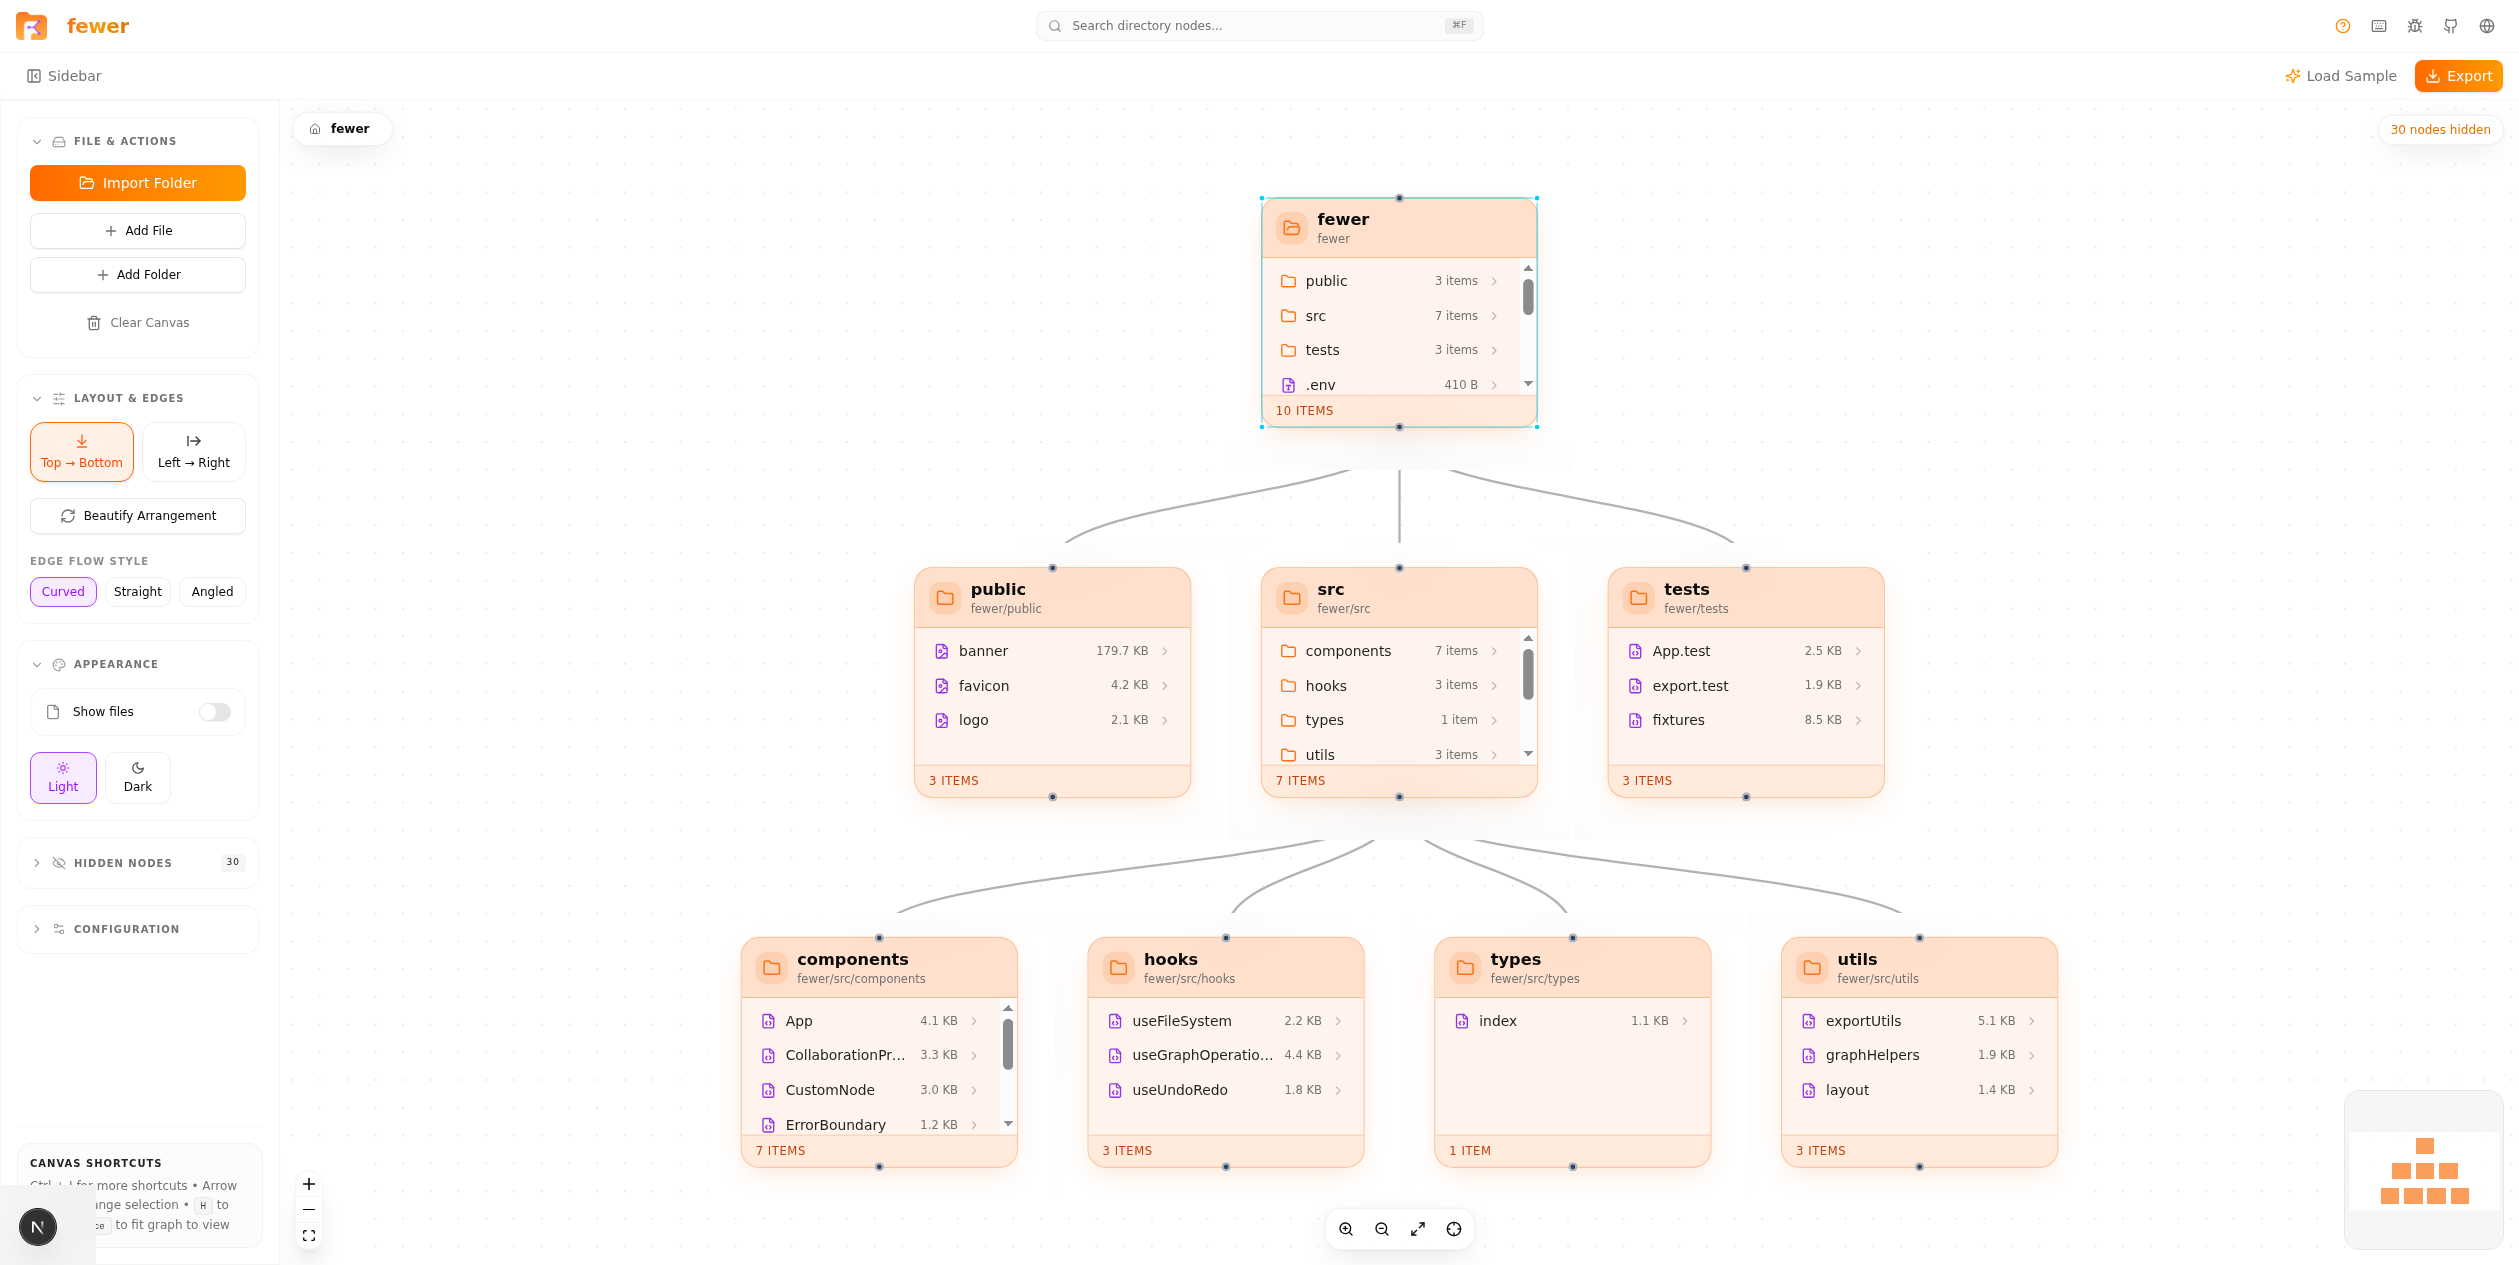
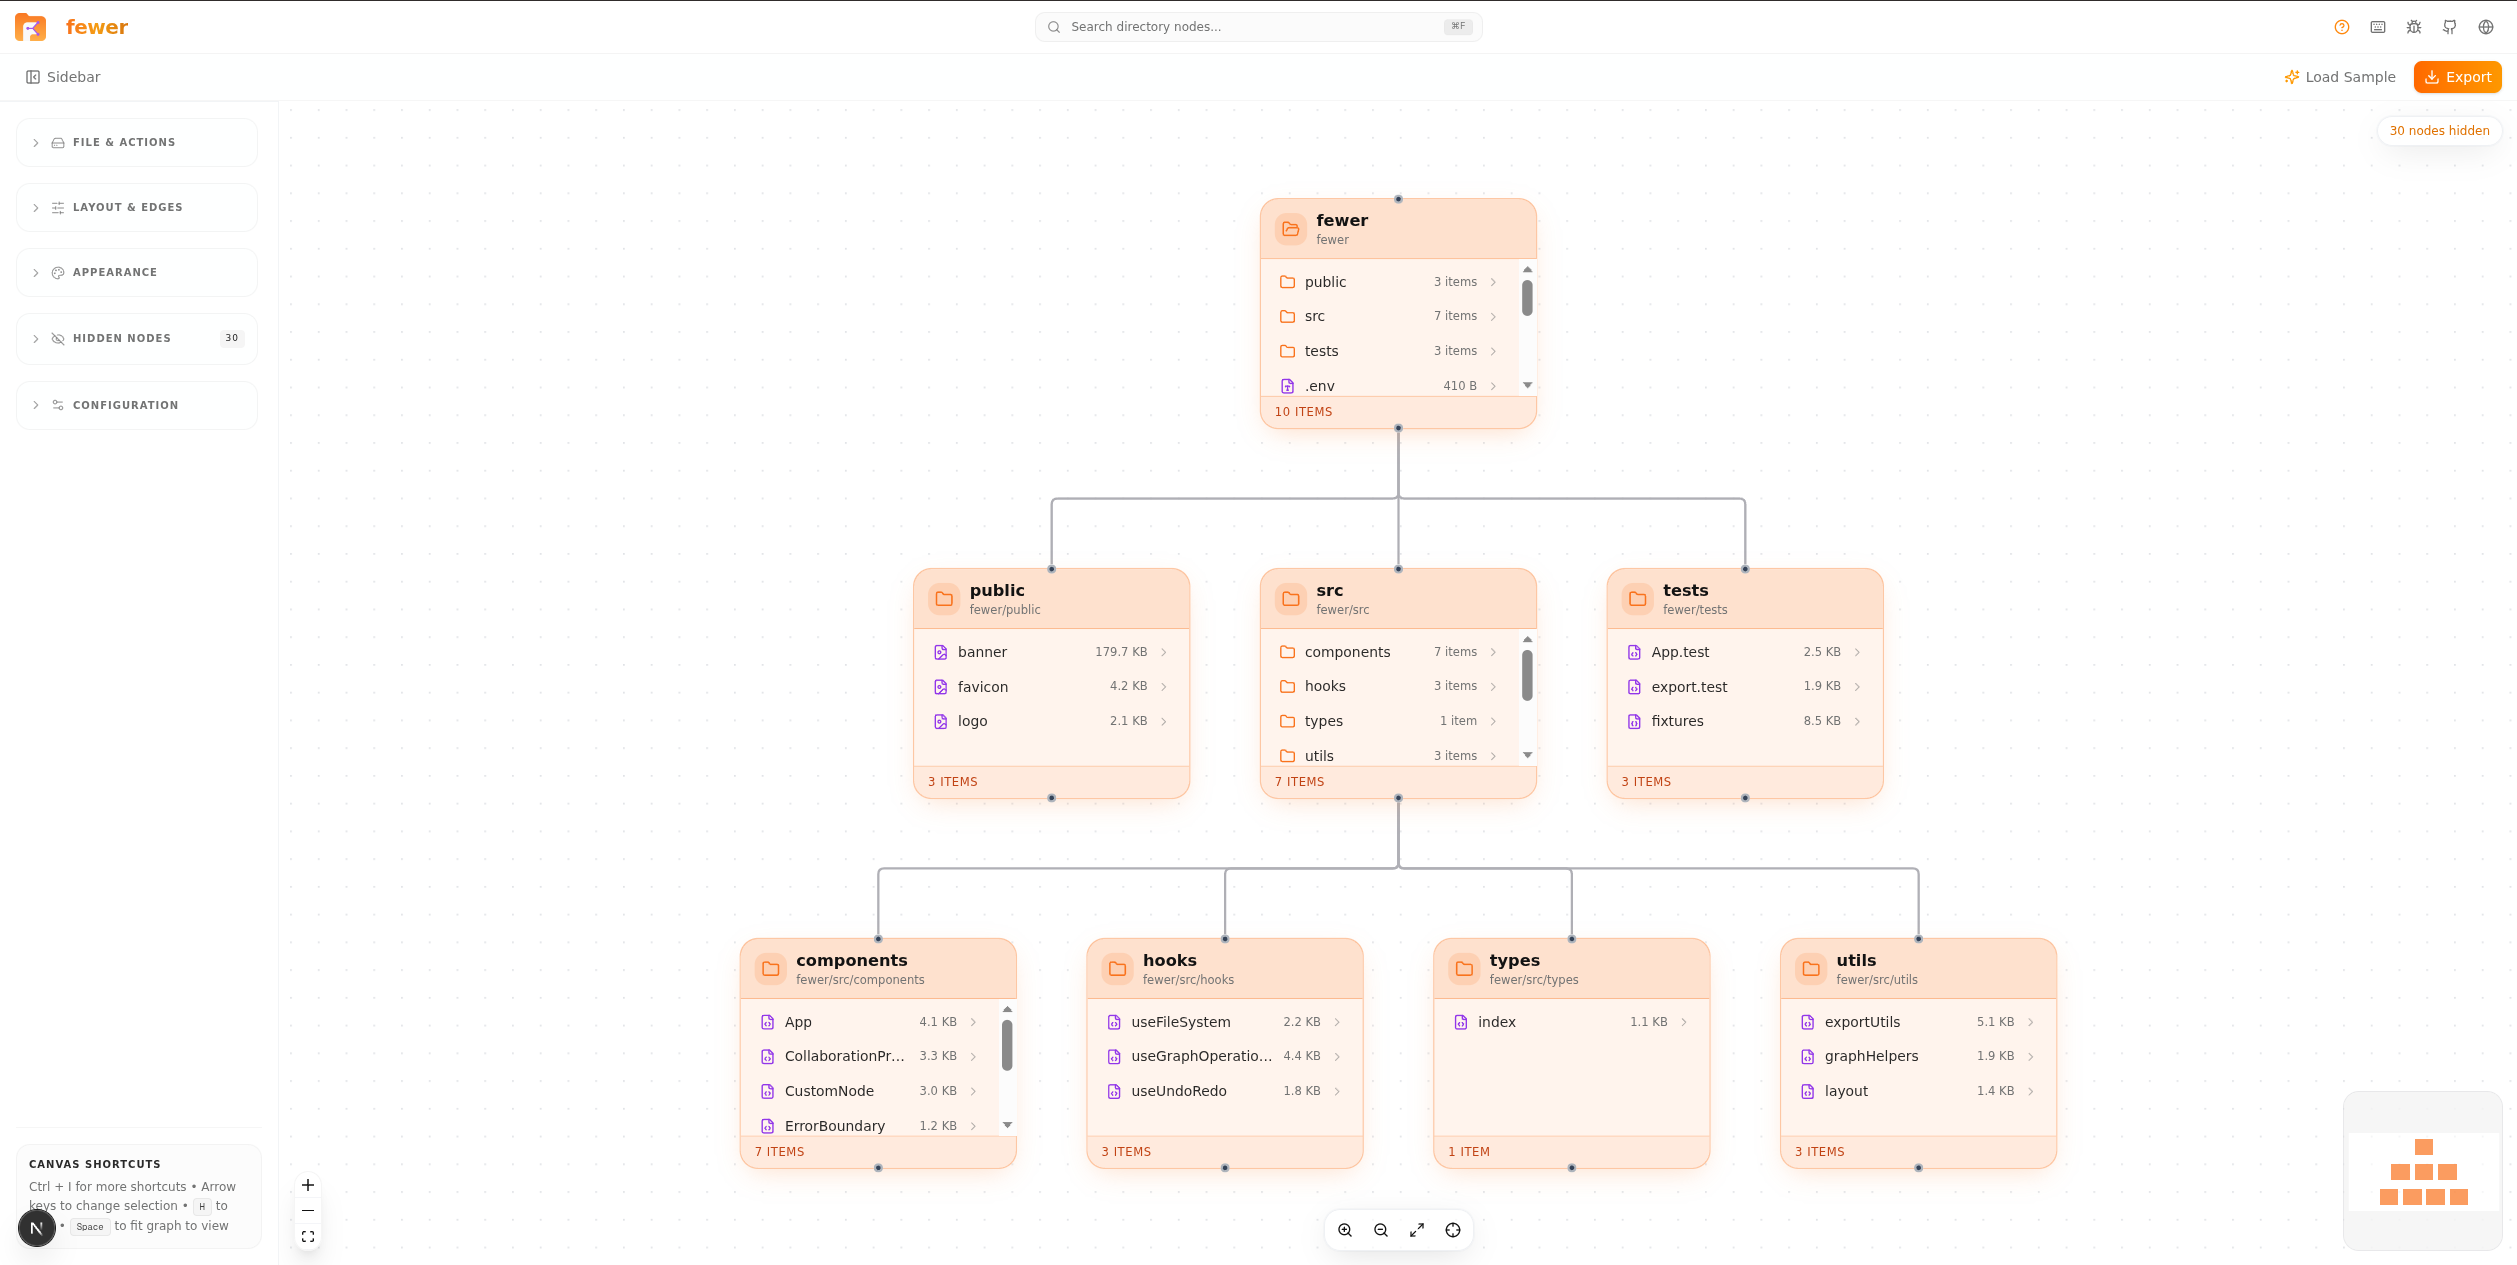
docs: add 0.3.0 changelog entry for dev branch changes since main

diff --git a/CHANGELOG.md b/CHANGELOG.md
@@ -5,11 +5,31 @@ All notable changes to this project will be documented in this file.
 The format is based on [Keep a Changelog](https://keepachangelog.com/en/1.0.0/),
 and this project adheres to [Semantic Versioning](https://semver.org/spec/v2.0.0.html).
 
-## [Unreleased]
+## [0.3.0] - 2026-07
 
 ### Added
 
-- Initial OSS documentation pack (CONTRIBUTING, CODE_OF_CONDUCT, SECURITY, CHANGELOG, AGENTS, issue/PR templates)
+- GitHub repository import via URL (new API route `/api/github-tree`, `useGitHubImport` hook)
+- Import URL dialog for fetching public GitHub repo trees
+- SVG logo component with gradient styling (replaces inline icons)
+- Flat logo variant (`logo_flat.svg`, `logo_flat.png`)
+- `ROADMAP.md` with categorized short/medium/long-term plans
+- Demo screenshot (`public/demo.png`) for README
+- Tutorial checklist items can now be toggled on/off
+- Tutorial text adapted for touch-only devices
+
+### Changed
+
+- Rewrote README with gold-standard patterns: problem-first lead, trust block near install, show-don't-tell demo, collapsed depth for features/architecture
+- Replaced inline icons in `GlobalNavbar` with `Logo` component
+- Updated logo assets (new coordinates in `logo.svg`, updated `logo.png`)
+- Extracted Roadmap section from README into standalone `ROADMAP.md`
+- Replaced ASCII tree in README with live demo screenshot
+
+### Fixed
+
+- License badge and section: MIT → AGPLv3 (matches LICENSE)
+- Pre-existing lint error: ref mutation during render in `GraphCanvas.tsx` (moved to `useEffect`)
 
 ## [0.2.0] - 2025
 
